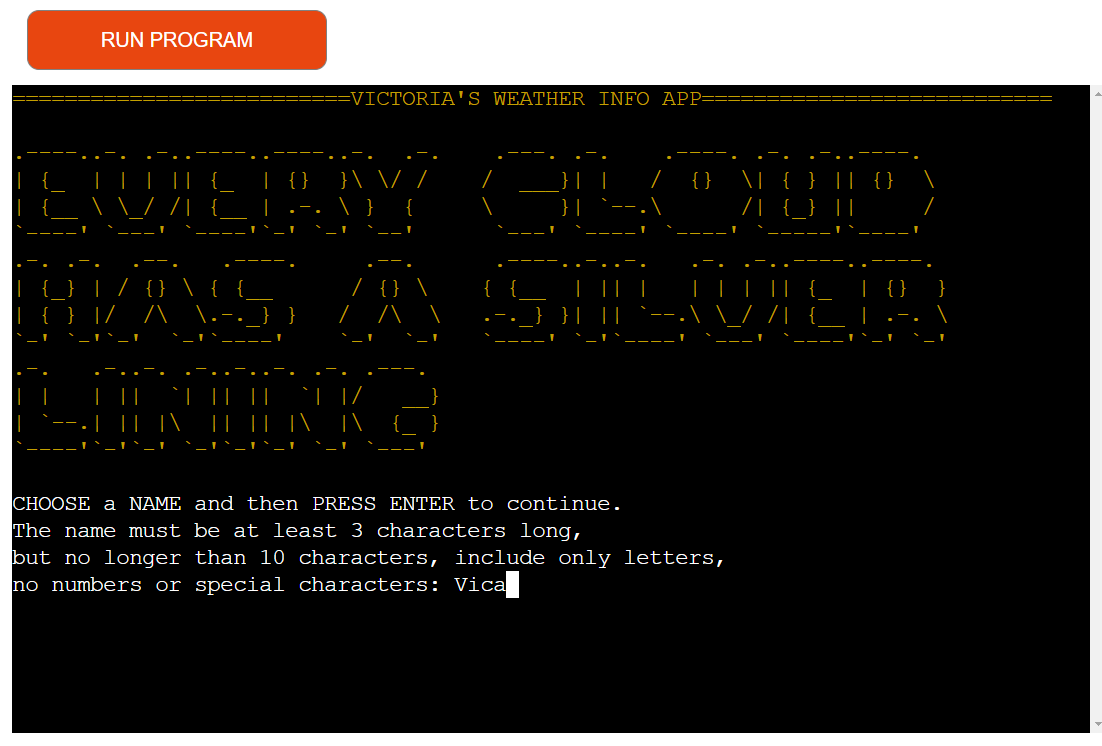
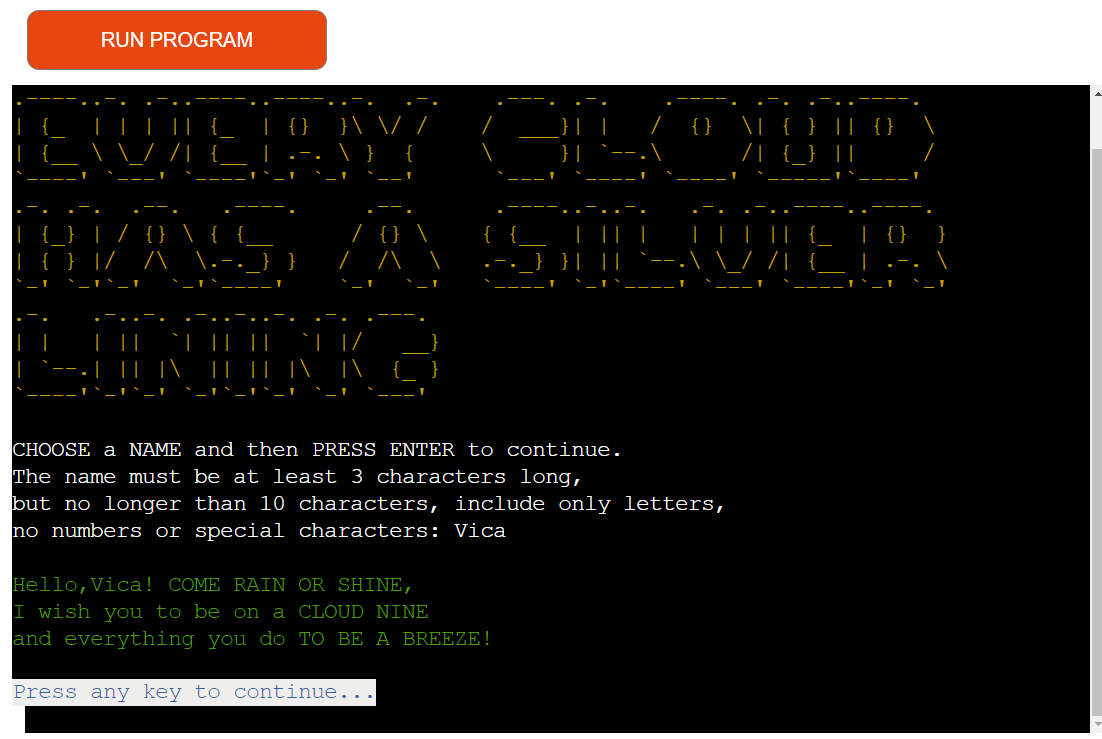
Add some context to Different Screens section of README

diff --git a/README.md b/README.md
@@ -191,10 +191,11 @@ Also, in order to improve user experience, the developer has included the follow
 The interactive parts of the application:
 
 - Menu
-  - The menu is the central feature of the application. It gives to the user four possibilities to proceed:
+  - The menu is the central feature of the application. It gives to the user five possibilities to proceed:
     - Get the weather information
     - Weather Components Explanation
     - Display Search History
+    - Instructions
     - Exit from the application
 - Name Input
 - City and Country Input
@@ -206,7 +207,7 @@ The interactive parts of the application:
 
 ### Existing Features
 
-All the fueatures would be part of the application design, and some of them already have been mentioned in the previous sections. Following is the list of the features that are present in the application with more additional details.
+All fueatures would be part of the application design, and some of them already have been mentioned in the previous sections. Following is the list of the features that are present in the application with more additional details.
 
 - Clear screen function. It clears the screen after each user input, so that the user can focus on the information displayed on the screen.
 
@@ -214,96 +215,63 @@ All the fueatures would be part of the application design, and some of them alre
 
 - **User input validations for various input scenarios**. It helps to improve user experience, avoid errors, and guarantee the correct functioning of the application.
 
-  1. User name input validation. The user is prompted to enter their name again if the input is invalid. The user is also prompted to enter their name again if the input is less than 3 characters or more then 10 characters.
+  - _User name input validation_
+
+  The user is prompted to enter their name again if the input is invalid. The user is also prompted to enter their name again if the input is less than 3 characters or more then 10 characters.
 
   ![Name Input Screen](./assets/readme_files/input_validations/name_input_validation.gif)
 
-  - City and country input validation
-    - user is ofered to confirm the city and country input. If the user confirms, the application will proceed to display the weather information. If the user wants to change the city and country, the application will allow the user to do so.
+  - _City and country input validation_
+
+    The user is ofered to confirm the city and country input. If the user confirms, the application will proceed to display the weather information. If the user wants to change the city and country, the application will allow the user to do so.
 
   ![City and Country Input Validation](./assets/readme_files/input_validations/location_input_validation.gif)
 
-  - Search history display validation
-    - If the user has no search history, the application will display a message to the user that there is no search history and will prompt the user to go back to the menu to get the weather information.
+  - _Search history display validation_
+
+    If the user has no search history, the application will display a message to the user that there is no search history and will prompt the user to go back to the menu to get the weather information.
 
   ![Search History Display Validation](./assets/readme_files/input_validations/search_history_validation.gif)
 
+  [Back to the top ⇧](#weather-info-app)
+
 - **Different info screens**
 
-  - These are presented in different moment of the game. Practically every feature is related to these screens, e.g.:
+_Welcome Screen_
 
-  1. Intro Screen
-
-  ![Intro Screen](./assets/readme_files/intro_screen.png)
-
-  2. End Screen
-
-  ![End Screen](./assets/readme_files/end_screen.png)
-
-- **Question database loader**
-
-  - At the beginning of the application the json files are loaded with the data stored locally, but produced by the API https://the-trivia-api.com/. At first, the developer copied the data recevied into the code of another Python file that was imported to the main file. After organizing the data in json files, the developer integrated the code into main file. The three json files contain different difficulety level questions, and each 15 different ones.
-
-  ![JSON Files](./assets/readme_files/json_files.png)
-
-  **Welcome Screen**
-
-1. The application is designed to be simple and intuitive. The user is presented with a welcome screen upon launching the application. The welcome screen provides:
+The application is designed to be simple and intuitive. The user is presented with a welcome screen upon launching the application. The welcome screen provides:
 
 - A BANNER_INTRO (ASCII art) depicting the sun and clouds to give the user a visual representation of the application's purpose.
 - An informative message for the user explaining that the application is used to check the weather of a city and country of their choice.
 - A prompt to press any key to continue.
-  ![Welcome Screen](./assets/readme_files/images/welcome_screen.png)
+  ![Welcome Screen](./assets/readme_files/different_info_screens/welcome_screen.png)
 
 [Back to the top ⇧](#weather-info-app)
 
-**User Name Input Screen**
+_User Name Input Screen_
 
-2. Then user is presented with the Name Input screen. The user is prompted to enter their name. The user's name is used to personalize the application. The user's name is also used to display the historical searches. The user's name is validated to ensure that it is a string and not a number. The user is prompted to enter their name again if the input is invalid. The user is also prompted to enter their name again if the input is less than 3 characters or more then 10 characters. The Name Input screen provides:
+Following Welcome Screen user is presented with the Name Input screen. The user is prompted to enter their name. The user's name is used to personalize the application. The user's name is also used to display the historical searches. The user's name is validated to ensure that it is a string and not a number. The user is prompted to enter their name again if the input is invalid. The user is also prompted to enter their name again if the input is less than 3 characters or more then 10 characters. The Name Input screen provides:
 
 - An imitation of a typewriter effect typing - British weather idiom 'Every cloud has a silver lining' - to enhance the user experience (BANNER_INPUT [ASCII art]).
 - A prompt to enter the user's name that satisfies the stated validation criteria.
+- After a valid name is entered, the user is presented with a greeting name that uses the user's name - 'Hello, {user_name}! COME RAIN OR SHINE,
+  I wish you to be on a CLOUD NINE and everything you do TO BE A BREEZE!' The greeting meassega has been composed with the use of British weather idioms to enhance the user experience.
 
-![Name Input Screen](./assets/readme_files/gifs/name_input.gif)
+![Name Input Screen](./assets/readme_files/different_info_screens/name_input_screen.png)
+
+_Menu Screen_
+
+Following the Name Input screen, the user is presented with the Menu screen. As mentrioned above, the menu is the central feature of the application. It gives to the user five possibilities to proceed with the application.
+
+![Menu Screen](./assets/readme_files/different_info_screens/menu_screen.png)
+
+_Get Weather Information_
+
+After choosing the first option from the menu, the user is presented with the Get Weather Information screen. The user is prompted to enter the city and country of their choice. The user is also prompted to confirm the city and country input. If the user confirms, the application will proceed to display the weather information. If the user wants to change the city and country, the application will allow the user to do so as been demonstrated in the section [User input validations for various input scenarios.](#user-input-validations-for-various-input-scenarios)
+
+. The user is prompted to enter the city and country of their choice. The user is also prompted to confirm the city and country input. If the user confirms, the application will proceed to display the weather information. If the user wants to change the city and country, the application will allow the user to do so. The Get Weather Information screen provides:
 
 [Back to the top ⇧](#weather-info-app)
-
-- **How to play the game instructions display**
-
-  - The instructions are read from the corresponding txt file and displayed on screen. They appear after the intro screen and later when chosen from the menu.
-
-  ![How To Play Instructions Screen](./assets/readme_files/how_to_play_screen.png)
-
-- **Player's Name Input**
-
-  - After the instructions, the next screen requires user to enter they name. The valid input corresponds to a string containing only letters and of minimum 3 characters length.
-
-  ![Player's Name Input](./assets/readme_files/insert_name_screen.png)
-
-- **Menu**
-
-  - Menu is the central feature of the application. It gives to the user four possibilities to proceed: start quiz, show the instructions, show the high scores, or exit from the application.
-
-  ![Menu](./assets/readme_files/menu_screen.png)
-
-- **Quiz function**
-
-  - This functionality immediately generates 15 randomly selected questions, 5 of each level, through the dedicated Class. There are controllers which guarantee that the questions woudn't be repeated and the shuffler for the answers, so they appear every time in a different order. Once that is over, the quiz starts with the first question. On the displayed screen, there are information about the point value of the question and the threshold (points guaranteed) if they were reached. Then appears the question and four answeres given with the letters a, b, c, and d as a choice. There's fifth option given to the user, that of q if they wish to quit the game with the so far accumulated points. If the wrong answer is given, the quiz ends and the points fall to the threshold. If none is reached, the quiz ends with 0 points, relative screen, and no high score saved. If the quiz ends with some points or the million is reached, different screens are presented and the score is saved in the high scores Google Sheet (name, points, date). After the end quiz screen, Menu returns.
-
-  ![Quiz Question Screen](./assets/readme_files/question_screen.png)
-  ![End Quiez Screen](./assets/readme_files/end_quiz_screen.png)
-
-- **High Scores Display**
-
-  - This function first fetches the data from the high scores Google Sheet and then presents them in order of the points received. So, the most successful scores come first.
-
-  ![High Scores Screen](./assets/readme_files/high_scores_screen.png)
-
-- **Game Exit**
-
-  - If this choice is made, the game finishes with the thank you note to the user.
-
-  ![Game End Screen](./assets/readme_files/end_screen.png)
 
 - **Slow print function**
 
